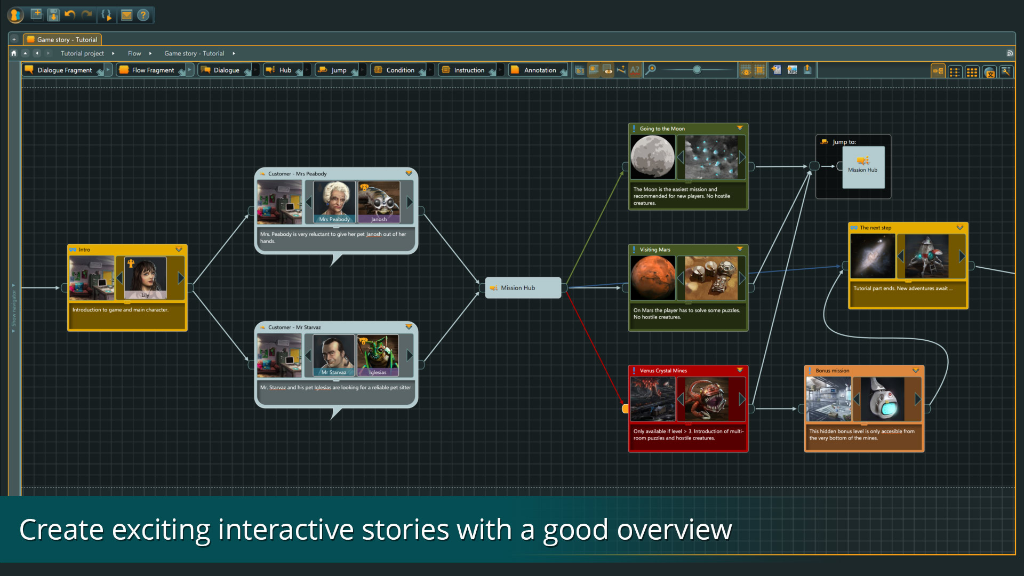
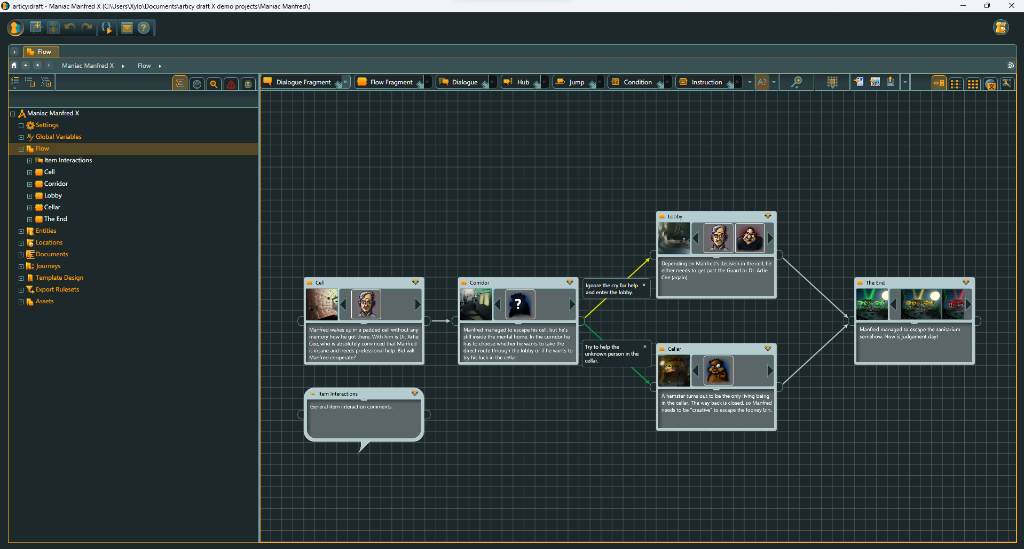
docs: Format comparative table columns and update Articy Draft screenshot

diff --git a/relatorio/Chapters/02-Fundamentacao-Teorica.tex b/relatorio/Chapters/02-Fundamentacao-Teorica.tex
@@ -208,18 +208,19 @@ A fim de estruturar a comparação entre as diferentes abordagens, apresenta-se 
 
 \begin{table}[!htbp]
 \centering
-\caption{Comparação de características principais entre motores de ficção interativa.}
+\caption{Comparação de características principais entre motores de narrativa interativa.}
 \label{tab:comparacao-motores}
-\begin{tabularx}{\textwidth}{lCCCCCC}
+\small
+\begin{tabularx}{\textwidth}{>{\raggedright\arraybackslash}p{3.2cm}CCCCCC}
 \toprule
-\textbf{Característica} & \textbf{Twine} & \textbf{Ink} & \textbf{ChoiceScript} & \textbf{Yarn Spinner} & \textbf{Narrative Flow} & \textbf{Articy Draft} \\
+\textbf{Característica} & \textbf{Twine} & \textbf{Ink} & \textbf{Choice-} \newline \textbf{Script} & \textbf{Yarn} \newline \textbf{Spinner} & \textbf{Narrative} \newline \textbf{Flow} & \textbf{Articy} \newline \textbf{Draft} \\
 \midrule
 Edição Visual           & Sim            & Não          & Não                  & Sim                   & Sim                     & Sim \\
 Variáveis e Estado      & Sim            & Sim          & Sim                  & Sim                   & Sim                     & Sim \\
 Lógica Condicional      & Sim            & Sim          & Sim                  & Sim                   & Sim                     & Sim \\
 Verificação Estática    & Não            & Não          & Não                  & Não                   & Não                     & Não \\
 Integração (Engines)    & Não            & Sim          & Não                  & Sim                   & Sim                     & Sim \\
-Gratuito / Open-source  & Sim            & Sim          & Sim (Licença CSL)    & Sim                   & Não (Pago)              & Não (Pago) \\
+Gratuito e Aberto       & Sim            & Sim          & Sim                  & Sim                   & Não                     & Não \\
 \bottomrule
 \end{tabularx}
 \end{table}